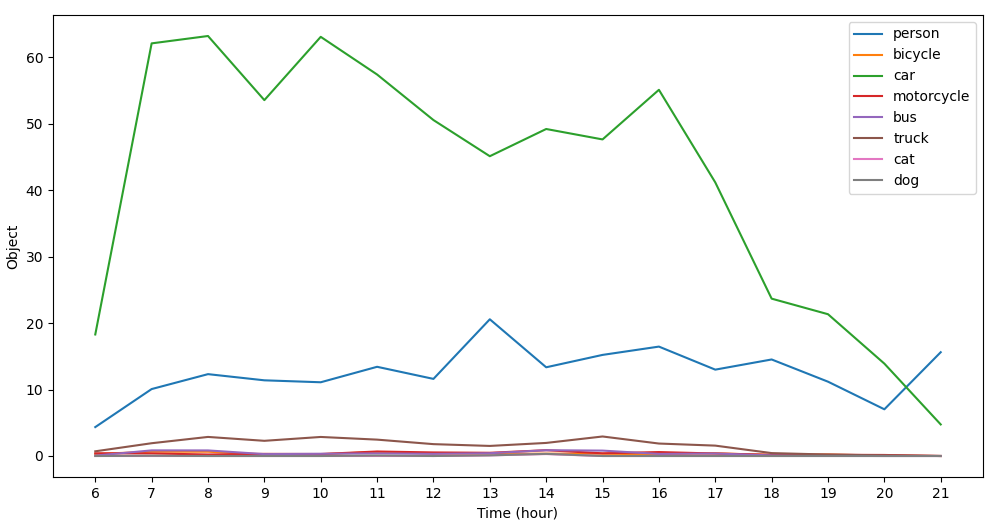
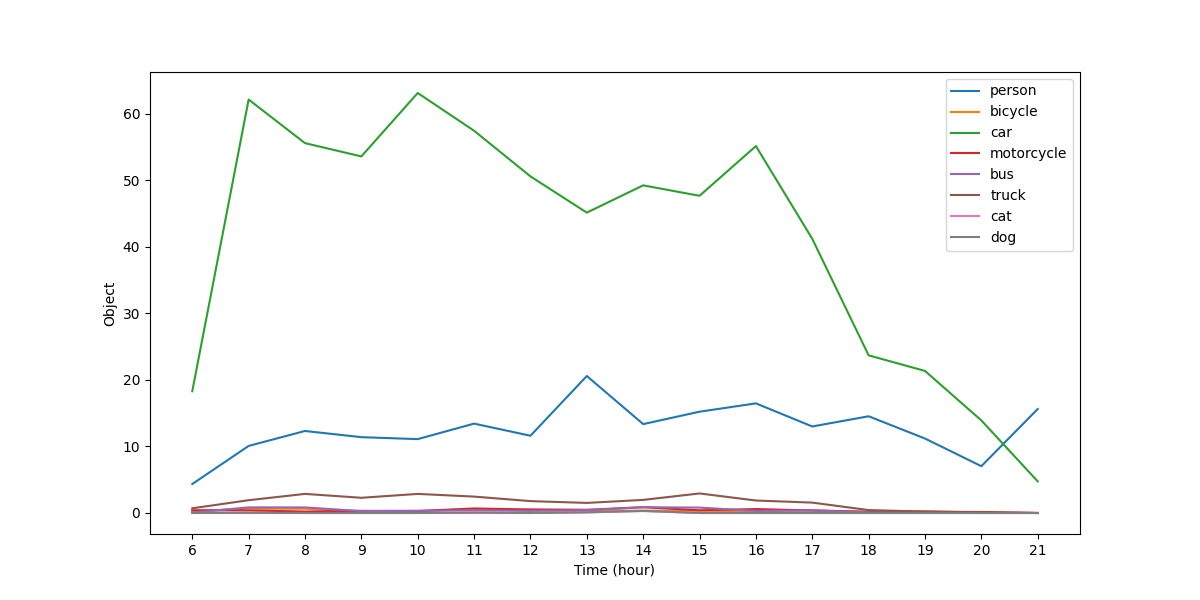
plot update

diff --git a/README.md b/README.md
@@ -8,6 +8,11 @@ relational database.
   <img src="data/videos/detected.gif" alt="animated" />
 </p>
 
+<p align="center">
+    <sup><strong>Figure 1:</strong> Traffic counter tracking in real-time.</sup>
+</p>
+
+
 ## ETL Pipeline
 
 ### Extraction:
@@ -27,11 +32,14 @@ key column, along with a timestamp and column for the number counted for each ob
 
 ## Analysis
 Figure below shows the average number of objects detected over a period of 10 days per hour.
+
 <p align="center">
-  <img src="data/traffic_data_plot.png"/>
+  <img src="data/traffic_data_plot.png" width="500">
 </p>
 
-
+<p align="center">
+    <sup><strong>Figure 2:</strong> Average number of objects tracked in one week.</sup>
+</p>
 
 
 
